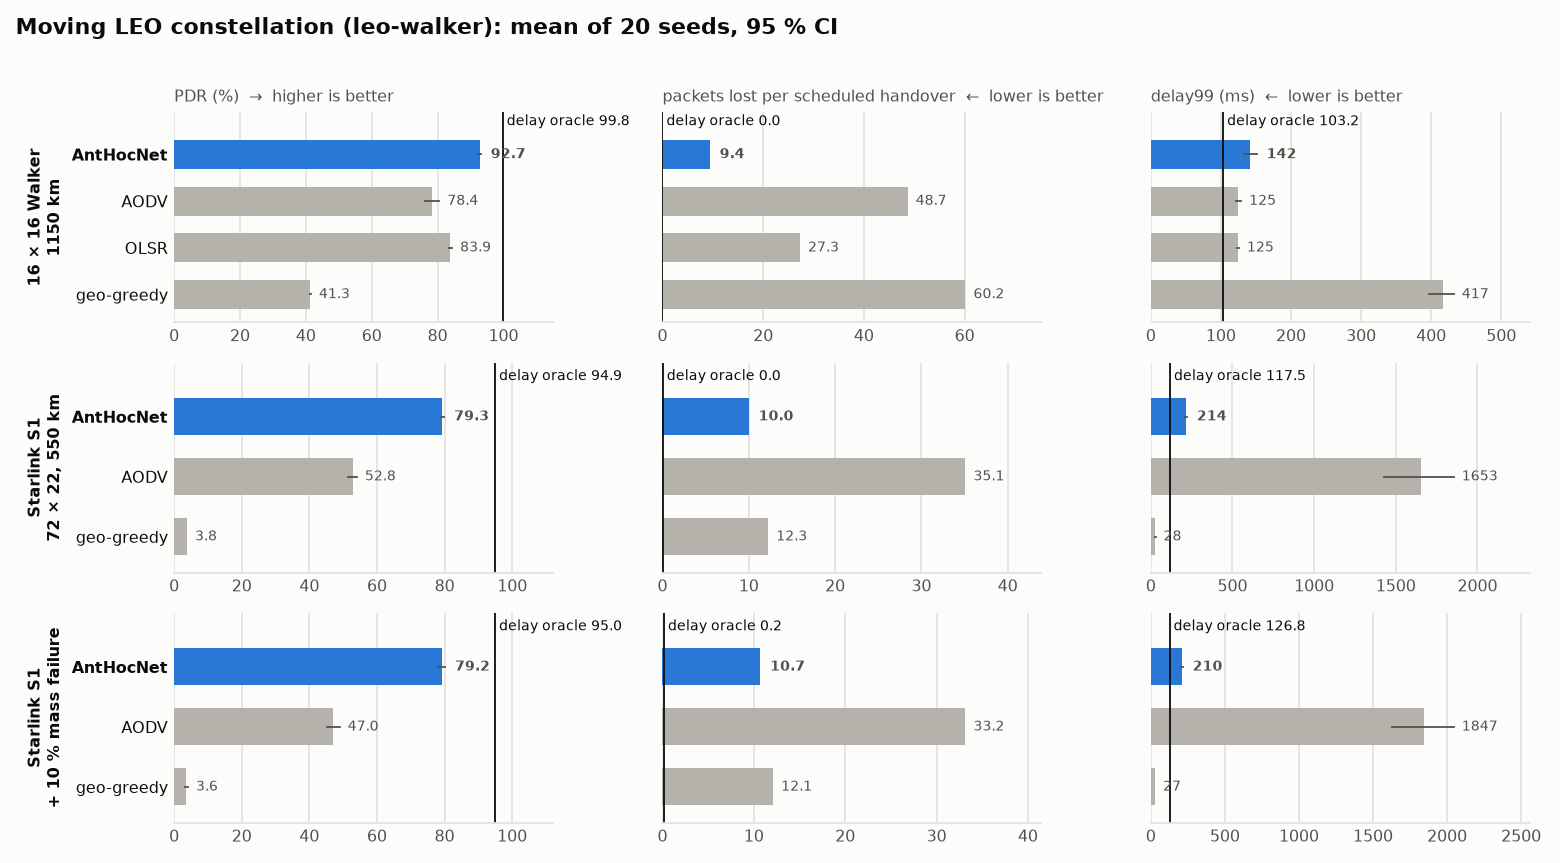
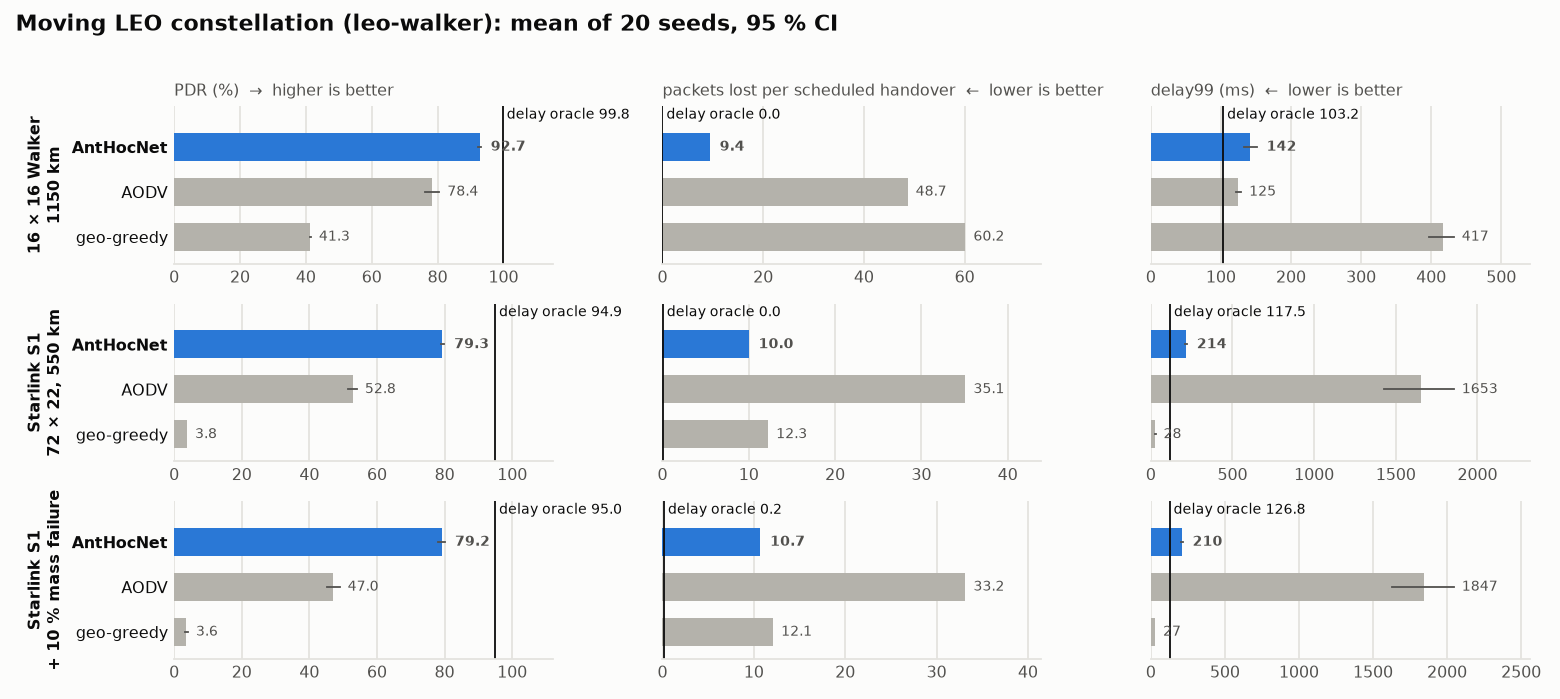
docs: baselines are family-native (ADR-0026); retire OLSR as a LEO arm (#712)
Maintainer decision 2026-10-18: each network family is compared against
the protocols designed for it, or standard as baselines in its own
literature, plus its oracle. MANET protocols are not carried into the
other families by default.

- docs/adr/0026-baselines-are-family-native.md (new, indexed in
  docs/adr/README.md and mkdocs.yml): the rule, the per-family keep / add /
  retire table, and its consequences. Published migrant rows stay as the
  dated record of their campaign; the rule applies from the next campaign
  plan. Comparators to add: HWMP for the static mesh (#708), GPCR-style
  junction-aware geographic routing for VANET (#709), a 3-D geographic arm
  for FANET (#710), OPSPF-style predictable link state for the satellite
  cells (#707). The cross-family view moves from "vs AODV" to the oracle
  gap and the best native baseline (#711).
- OLSR leaves the LEO comparison now (it was walker16-only, and its
  v2.3.0 re-run exceeded the 6 h job limit twice):
  - leo-walker.md: the arm list marks OLSR retired (OPSPF, #707, takes the
    link-state slot) and AODV retiring from the next campaign; the v2.3.0
    block drops the OLSR rows (its v2.2.0 measurement stays in the dated
    tables); the threats-to-validity line follows.
  - family-charts.py: LEO_ARMS drops OLSR; constellation.png re-rendered.
    results/figures.yml drops the v2.2.0 OLSR input.
  - v2.3.0-campaign.md: the OLSR validity bullet records both cancelled
    runs and the retirement.
[…]

diff --git a/ns3/tools/family-charts.py b/ns3/tools/family-charts.py
@@ -119,17 +119,14 @@ SAT_CORRIDOR = "sat-corridor-app517.txt"
 LEO_CELLS = [("walker16", "16 × 16 Walker\n1150 km"),
              ("starlink1", "Starlink S1\n72 × 22, 550 km"),
              ("starlink1-storm", "Starlink S1\n+ 10 % mass failure")]
-LEO_ARMS = ["anthocnet", "aodv", "olsr", "geo-greedy"]
+LEO_ARMS = ["anthocnet", "aodv", "geo-greedy"]
 
 
 def leo_file(cell, arm):
     """The v2.3.0 generation's file for one LEO arm: AntHocNet from the quiet
-    arm; walker16's OLSR is v2.2.0's cell (its v2.3.0 re-run exceeded the
-    6 h job limit; OLSR is unchanged by the release)."""
+    arm. OLSR is retired as a LEO arm from v2.3.0 (#707 takes its slot)."""
     if arm == "anthocnet":
         return f"leo-{cell}-anthocnet-v230-quiet.txt"
-    if cell == "walker16" and arm == "olsr":
-        return "leo-walker16-olsr-v220.txt"
     return f"leo-{cell}-{arm}-v230.txt"
 LEO_CALIB = "leo-hypatia-calib-oracle-delay.txt"
 # Hypatia (Kassing et al., IMC 2020, Fig. 13): Starlink S1, Paris-Luanda RTT

diff --git a/docs/adr/0026-baselines-are-family-native.md b/docs/adr/0026-baselines-are-family-native.md
@@ -1,0 +1,87 @@
+# ADR-0026: Baselines are family-native
+
+- **Status:** Accepted (maintainer decision, 2026-10-18)
+- **Date:** 2026-10-18
+- **Complements:** [ADR-0019](0019-network-families-change-the-evaluation-not-the-protocol.md).
+  That ADR keeps *AntHocNet* identical across families. This one decides
+  what it is compared *against* in each.
+
+## Context
+
+Every family in the corpus grew its baselines by copying the MANET set. AODV,
+OLSR and DSDV run on the MANET grid, where they belong. They also run on the
+static mesh, the FANET cells, the VANET street grid and the satellite cells,
+where nobody proposes them. AOMDV followed them into FANET and VANET.
+
+That makes comparisons that look like results but answer the wrong question:
+
+- **Satellite.** [satellite-routing-prior-art.md §2.2](../satellite-routing-prior-art.md)
+  already says it: "AODV / OLSR / DSDV are not satellite protocols. Nobody
+  proposes them for a constellation." Beating them on a LEO shell is a
+  strawman. The comparator the field actually proposes, predictability-aware
+  link state (OPSPF), is missing.
+- **Cost without information.** walker16's OLSR control took 5 h 54 min of
+  CI for 20 seeds in v2.2.0. In v2.3.0 it exceeded the 6 h job limit twice,
+  to reproduce a row no reader of a satellite paper would ask for.
+- **Misleading rankings.** "AntHocNet beats AODV in every family" reads as a
+  cross-family claim. In the families where AODV is a migrant, it only says
+  that AntHocNet beats a protocol no one would deploy there.
+
+## Decision
+
+**Each family is compared against the protocols designed for that family, or
+standard as baselines in its own literature. A MANET protocol is not carried
+into another family by default.**
+
+Every family keeps two references that are not migrants:
+
+- **the oracle**, its upper bound (exact on the ISL torus and the static mesh,
+  approximate on fading channels, as each page states);
+- **its native comparators**, from the table below.
+
+| family | keep (native, or the family's own standard baseline) | add | retire from the next campaign |
+|---|---|---|---|
+| MANET grid | AODV, OLSR, DSDV, AOMDV (the family these protocols were built for) | — | — |
+| static Wi-Fi mesh | OLSR (community meshes) | IEEE 802.11s HWMP ([#708](https://github.com/danieljoppi/AntHocNet/issues/708)) | AODV, DSDV |
+| FANET | AODV, OLSR (the FANET literature's standard baselines) | a 3-D geographic arm ([#710](https://github.com/danieljoppi/AntHocNet/issues/710)) | DSDV, AOMDV |
+| VANET | GPSR (position-based), AODV (the VANET literature's standard reactive baseline) | a junction-aware geographic arm, GPCR-style ([#709](https://github.com/danieljoppi/AntHocNet/issues/709)) | OLSR, DSDV, AOMDV |
+| satellite ISL grid | the oracle (precomputed shortest path, the snapshot-routing family at its best case) | OPSPF-style predictable link state ([#707](https://github.com/danieljoppi/AntHocNet/issues/707)) | AODV, OLSR |
+| LEO shells | geo-greedy (idealised position-based), oracle, oracle-delay (Hypatia-style) | OPSPF-style predictable link state ([#707](https://github.com/danieljoppi/AntHocNet/issues/707)) | AODV, OLSR (OLSR retired already from v2.3.0) |
+
+"The family's own standard baseline" is a test, not a loophole. A protocol
+stays only where the family's survey literature uses it as a baseline. AODV
+on VANET and FANET passes; AODV on a constellation does not.
+
+## Consequences
+
+- **Published numbers stay.** Every migrant row already published remains, as
+  the dated record of its campaign. The rule applies from the next campaign
+  plan (v2.4.0's control). Pages say "retired" next to a migrant row; they do
+  not delete it.
+- **The cross-family view changes.** `families-vs-aodv` compares against a
+  protocol that is no longer in every family. It is replaced by AntHocNet's
+  gap to each family's oracle, plus AntHocNet against each family's best
+  native baseline ([#711](https://github.com/danieljoppi/AntHocNet/issues/711)).
+- **New comparators are real work.** HWMP is stock ns-3 (`mesh` module). The
+  others are written in `ns3/baselines/`, beside GPSR, AOMDV and the oracle,
+  each with an anchor and a preflight rule, and each must route
+  ([#439](https://github.com/danieljoppi/AntHocNet/issues/439)).
+- **Harness support for migrant protocols stays.** `--protocols=olsr` still
+  works on every harness. A reader may run any protocol anywhere; the
+  published comparison is just not built on it.
+- **ADR-0019 is unchanged.** AntHocNet is still one binary with one set of
+  defaults in every family. The comparators are what differ, never the
+  protocol under test.
+
+## Alternatives considered
+
+- **Keep the MANET set everywhere, as a common yardstick.** Rejected: the
+  yardstick is the oracle, which every family has. A common migrant only
+  measures the distance to a protocol the family does not use.
+- **Keep AODV alone as a cross-family sanity row.** Rejected for the satellite
+  families: there, geo-greedy and the oracles already bound the naive and the
+  ideal case. AODV stays where its family's literature uses it (MANET, FANET,
+  VANET).
+- **Drop the migrant rows from the published pages now.** Rejected: they were
+  measured and published under the rules of their campaign. Rewriting them
+  would erase the record; marking them retired keeps it honest.

diff --git a/docs/benchmarks/satellite/leo-walker.md b/docs/benchmarks/satellite/leo-walker.md
@@ -60,8 +60,18 @@ Arms:
 
 - **anthocnet** — this repository, defaults.
 - **aodv** — stock ns-3 AODV, the reactive baseline every other suite uses.
-- **olsr** — stock ns-3 OLSR, the proactive link-state baseline. walker16
-  only (see below).
+  A MANET protocol here, so it leaves the LEO cells from the next campaign
+  ([ADR-0026](../../adr/0026-baselines-are-family-native.md)); its v2.3.0 rows
+  stay as measured.
+- **olsr** — *retired from v2.3.0 on.* Stock ns-3 OLSR, the proactive
+  link-state baseline, ran on walker16 only; its v2.2.0 measurement is kept
+  in the dated tables below. It was a terrestrial sanity row, which AODV and
+  the two oracles already provide
+  ([satellite-routing-prior-art.md §2.2](../../satellite-routing-prior-art.md)),
+  and at 20 seeds its walker16 run no longer fits the 6 h job limit. The
+  proactive link-state slot goes to the comparator the field actually
+  proposes: predictability-aware link state (OPSPF,
+  [#707](https://github.com/danieljoppi/AntHocNet/issues/707)).
 - **geo-greedy** — an *idealised* greedy geographic comparator: each hop goes
   to the neighbour nearest the destination's serving satellite, with perfect
   global position knowledge and no control traffic. It stands for the
@@ -74,9 +84,10 @@ Arms:
   follows `--delayUpdate`) and every 1 s on S1 to keep CI time bounded. This
   is the latency bound, and the Hypatia-style control.
 
-OLSR runs on walker16 only. On S1's 1584 nodes its topology flooding is the
-practical limit of the harness, not of the substrate (ADR-0022, criterion 5):
-even the 256-node walker16 cell took 5 h 54 min of CI for 20 seeds.
+OLSR ran on walker16 only, through v2.2.0. On S1's 1584 nodes its topology
+flooding is the practical limit of the harness, not of the substrate
+(ADR-0022, criterion 5): even the 256-node walker16 cell took 5 h 54 min of
+CI for 20 seeds, and its v2.3.0 re-run exceeded the 6 h limit twice.
 
 ## Restated at v2.3.0 defaults (quiet mode on)
 
@@ -91,7 +102,7 @@ even the 256-node walker16 cell took 5 h 54 min of CI for 20 seeds.
 >
 > **Provenance.** The campaign's runs at `main`, `54cdfae7..cc230126`. Cells:
 > the per-arm cells `results/cells/leo-<shell>-<arm>-v230.txt`, with AntHocNet from `leo-<shell>-anthocnet-v230-quiet.txt`. Tables recomputed from the cells' `##RUN##` rows (t-intervals; delay99 by
-> bootstrap). Stock AODV's rows are the v2.3.0 control's. On these multi-interface nodes they differ from v2.2.0's in iteration order only ([#362](https://github.com/danieljoppi/AntHocNet/issues/362), [#675](https://github.com/danieljoppi/AntHocNet/issues/675)), and the paired difference is within noise. The walker16 OLSR row is v2.2.0's cell (`leo-walker16-olsr-v220.txt`). Its v2.3.0 re-run exceeded the 6 h job limit twice at 20 seeds. OLSR is untouched by this release, and every other OLSR row the campaign re-ran is byte-identical to the corpus.
+> bootstrap). Stock AODV's rows are the v2.3.0 control's. On these multi-interface nodes they differ from v2.2.0's in iteration order only ([#362](https://github.com/danieljoppi/AntHocNet/issues/362), [#675](https://github.com/danieljoppi/AntHocNet/issues/675)), and the paired difference is within noise. OLSR is no longer a LEO arm (decision 2026-10-18, see the arm list); its last measurement, v2.2.0's walker16 cell, stays in the dated tables below.
 >
 > **walker16**
 >
@@ -99,7 +110,6 @@ even the 256-node walker16 cell took 5 h 54 min of CI for 20 seeds.
 > |---|---:|---:|---:|
 > | **anthocnet** | **92.74 ± 0.39** | 141.6 [132.8, 150.9] | 97.66 ± 1.79 |
 > | aodv | 78.40 ± 2.14 | 125.0 [121.2, 128.9] | 91.57 ± 2.54 |
-> | olsr | 83.88 ± 0.53 | 124.7 [123.5, 125.8] | 306.59 ± 1.87 |
 > | geo-greedy | 41.35 ± 0.19 | 417.3 [396.9, 432.2] | 0.00 ± 0.00 |
 > | oracle | 98.35 ± 0.12 | 123.2 [123.0, 123.5] | 0.00 ± 0.00 |
 > | oracle-delay | 99.79 ± 0.03 | 103.2 [103.0, 103.6] | 0.00 ± 0.00 |
@@ -107,7 +117,6 @@ even the 256-node walker16 cell took 5 h 54 min of CI for 20 seeds.
 > | AntHocNet minus | ΔPDR (pp) | Δdelay99 (ms) | ΔNRL |
 > |---|---:|---:|---:|
 > | aodv | **+14.34 [+12.11, +16.57]** | **+16.6 [+5.5, +27.6]** | **+6.10 [+2.99, +9.20]** |
-> | olsr | **+8.86 [+8.33, +9.38]** | **+16.9 [+6.9, +26.9]** | **-208.93 [-210.95, -206.91]** |
 > | geo-greedy | **+51.39 [+51.00, +51.78]** | **-275.8 [-298.3, -253.2]** | **+97.66 [+95.87, +99.45]** |
 >
 > **Starlink S1**
@@ -435,9 +444,11 @@ on this page.
 - **10 Mbps links, 2 kbit/s flows.** The load is light on purpose — this is a
   reachability-under-motion test, not a capacity one. Congestion on ISLs is
   [#206](https://github.com/danieljoppi/AntHocNet/issues/206)'s question.
-- **No OLSR on S1.** Proactive link-state flooding on 1584 nodes exceeds the
-  CI budget; it is measured on walker16 only, where 20 seeds already took
-  5 h 54 min.
+- **No OLSR from v2.3.0, and never on S1.** Proactive link-state flooding on
+  1584 nodes exceeds the CI budget; walker16 alone took 5 h 54 min for 20
+  seeds in v2.2.0 and exceeded 6 h in v2.3.0. The arm is retired; OPSPF
+  ([#707](https://github.com/danieljoppi/AntHocNet/issues/707)) is the
+  link-state comparator to add.
 
 ## Reproduce
 

diff --git a/docs/adr/README.md b/docs/adr/README.md
@@ -33,6 +33,7 @@ detail.
 | [0023](0023-one-core-one-simulator-adapter.md) | One core, one simulator adapter (ns-3) after NS-2's removal — the ports seam, codec and "no NS headers in `core/`" rule stay; the browser adapter keeps the core's second consumer. Supersedes ADR-0002. |
 | [0024](0024-per-neighbour-link-quality-port.md) | A per-neighbour link-quality port (`ILinkQuality`) for the thesis's SINR metric: each node puts its own link cost into the hop a backward ant came over (§4.2.2); no wire change; classic byte-identical; ns-3 feeds it from the PHY monitor trace. Decides #181, #144. |
 | [0025](0025-kinematics-port-absent-when-unknown.md) | A kinematics port (`IKinematics`): position and velocity enter the core, **absent, not zero**, when unknown; neighbours' come from an optional hello section (wire 0x04), never from the adapter; gated off by `shareKinematics` and byte-identical when off; consumers (link lifetime, #574) gate separately. Decides #573. |
+| [0026](0026-baselines-are-family-native.md) | Baselines are family-native: each family is compared against protocols designed for it, or standard in its literature, plus its oracle; MANET protocols are not carried into other families by default. Per-family keep / add / retire table; published migrant rows stay as the dated record; the cross-family view moves to the oracle gap (#711). |
 
 ## Adding an ADR
 

diff --git a/docs/benchmarks/v2.3.0-campaign.md b/docs/benchmarks/v2.3.0-campaign.md
@@ -172,10 +172,12 @@ The mechanism × regime summary is section 8 of
 - **Byte-identical cells.** Besides `ll` on the ISL grid, `quiet` is
   byte-identical to `control` on the three Nakagami grid cells: no route
   stays stable for one proactive round there, so the back-off never engages.
-- **The OLSR walker16 control.** Its first run was cancelled, and the
-  re-dispatch was still running when these verdicts were taken. It is a
-  baseline row and enters no mechanism verdict; the cell is added when it
-  lands.
+- **The OLSR walker16 control.** Both dispatches (runs 39036845475 and
+  39114244498) were cancelled at the 6 h job limit. It is a baseline row and
+  enters no mechanism verdict. OLSR is since retired as a LEO arm: baselines
+  are family-native ([ADR-0026](../adr/0026-baselines-are-family-native.md)),
+  and the link-state slot on the LEO shells goes to OPSPF
+  ([#707](https://github.com/danieljoppi/AntHocNet/issues/707)).
 - **Pairing.** Every comparison is paired per seed against `control`, n = 20
   in every cell. VANET main and sparse ran in seed blocks (5 × 4 and 2 × 10),
   concatenated by `campaign.py collect` and paired by seed.

diff --git a/docs/satellite-routing-prior-art.md b/docs/satellite-routing-prior-art.md
@@ -103,7 +103,11 @@ Two things follow, and both change #216:
    a constellation. Comparing AntHocNet only against them on an ISL grid would
    be a strawman, and a reviewer would say so. They stay useful as a *sanity*
    row — "here is what a naive terrestrial protocol does here" — never as the
-   claim.
+   claim. Since [ADR-0026](adr/0026-baselines-are-family-native.md) they leave
+   the satellite cells from the next campaign: geo-greedy and the oracles
+   cover the naive and the ideal case, and OPSPF
+   ([#707](https://github.com/danieljoppi/AntHocNet/issues/707)) takes the
+   link-state slot.
 2. **The realistic incumbent is predictability-aware link state, not just
    "precomputed shortest path".** OPSPF is the sharper control: it is what the
    field proposes *because* plain OSPF reconverges badly, so beating a
